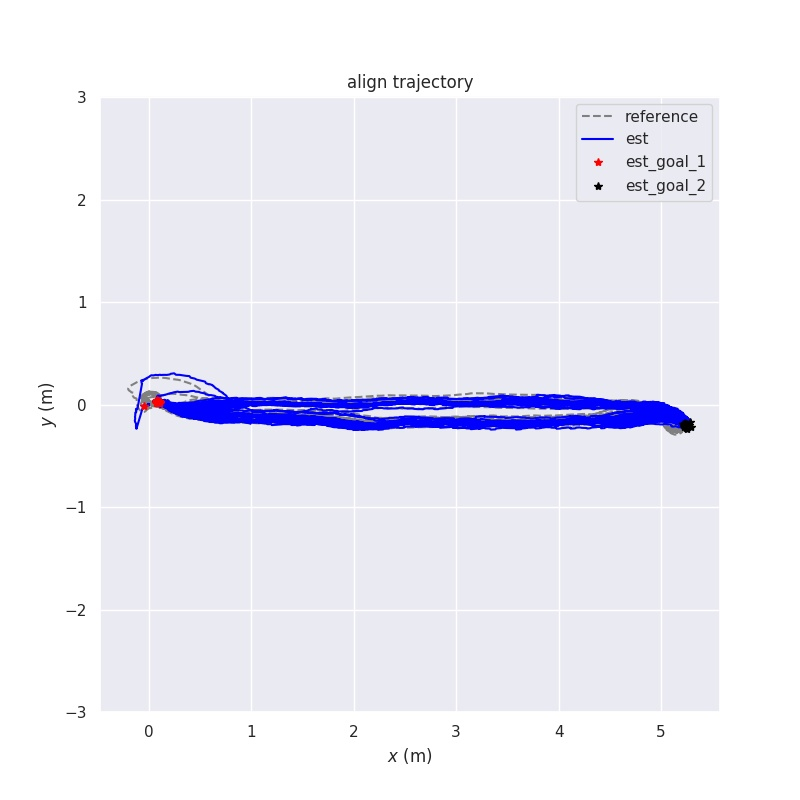
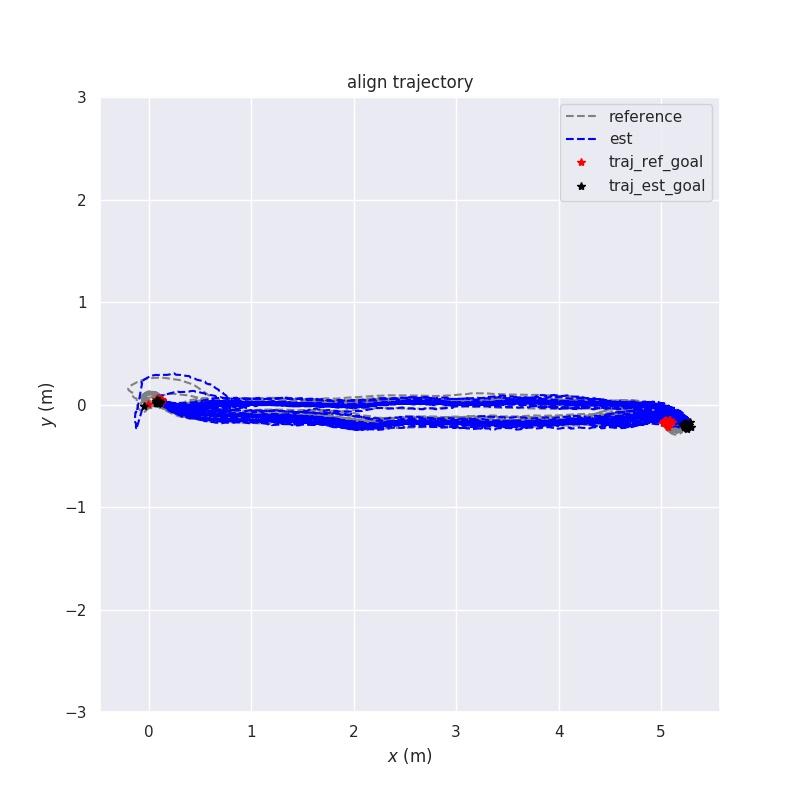
calculate two trj goal ape

Changed region(s): [[0.1562, 0.4688, 0.7812, 0.5312], [0.7188, 0.125, 0.875, 0.25], [0.8125, 0.5, 0.8438, 0.5625]]

diff --git a/align(back).py b/align(back).py
@@ -120,58 +120,83 @@ if __name__=="__main__":
         set_origin(traj_est,traj_ref)  
 
         # /reach_goal:
-        goal_timestamps= []
+        goal_1_timestamps= []
+        goal_2_timestamps= []
         for topic, msg, t in bag.read_messages(topic_signal):
-            goal_timestamps.append(msg.header.stamp.secs + (msg.header.stamp.nsecs * 1e-9))
+            # ReachGoal#1
+            if  msg.status.text=="ReachGoal#1":
+                goal_1_timestamps.append(msg.header.stamp.secs + (msg.header.stamp.nsecs * 1e-9))
+            # ReachGoal#1
+            if  msg.status.text=="ReachGoal#2":
+                goal_2_timestamps.append(msg.header.stamp.secs + (msg.header.stamp.nsecs * 1e-9))
 
         # Find the closest trajectort.
-        matching_indices_ref = []
-        matching_indices_est = []
-        stamps_goal, xyz_goal, quat_goal= [], [], []
-         # traj_ref
-        for index_1, element1 in enumerate(goal_timestamps):
-            diffs = traj_ref.timestamps-element1
+        max_diff = 0.01,
+        matching_indices_1 = []
+        matching_indices_2 = []
+        # ReachGoal#1
+        for index_1, goal_1_timestamps in enumerate(goal_1_timestamps):
+            diffs = traj_est.timestamps-goal_1_timestamps
             valid_idx = np.where(diffs >= 0)[0]
+            #index_2 = valid_idx[diffs[valid_idx].argmin()]
             index_2 = valid_idx[0]
-            matching_indices_ref.append(index_2)
-                
-        stamps_goal =traj_ref.timestamps[matching_indices_ref]
-        xyz_goal =traj_ref.positions_xyz[matching_indices_ref]
-        quat_goal =traj_ref.orientations_quat_wxyz[matching_indices_ref]
-        traj_ref_goal=PoseTrajectory3D(np.array(xyz_goal), np.array(quat_goal), np.array(stamps_goal),traj_ref.meta)
-
-        # traj_est
-        for index_1, element2 in enumerate(goal_timestamps):
-            diffs = traj_est.timestamps-element2
+            if diffs[index_2] <= max_diff:
+                matching_indices_1.append(index_2)
+        # ReachGoal#2
+        for index_1, goal_2_timestamps in enumerate(goal_2_timestamps):
+            diffs = traj_est.timestamps-goal_2_timestamps
             valid_idx = np.where(diffs >= 0)[0]
+            #index_2 = valid_idx[diffs[valid_idx].argmin()]
             index_2 = valid_idx[0]
-            matching_indices_est.append(index_2)
-                
-        stamps_goal =traj_est.timestamps[matching_indices_est]
-        xyz_goal =traj_est.positions_xyz[matching_indices_est]
-        quat_goal =traj_est.orientations_quat_wxyz[matching_indices_est]
-        traj_est_goal=PoseTrajectory3D(np.array(xyz_goal), np.array(quat_goal), np.array(stamps_goal),traj_est.meta)
+            if diffs[index_2 ] <= max_diff:
+                matching_indices_2.append(index_2 )
 
-        # calculating APE.
+        stamps_goal_1, xyz_goal_1, quat_goal_1= [], [], []
+        stamps_goal_1 =traj_est.timestamps[matching_indices_1]
+        xyz_goal_1 =traj_est.positions_xyz[matching_indices_1]
+        quat_goal_1 =traj_est.orientations_quat_wxyz[matching_indices_1]
+        traj_goal_1=PoseTrajectory3D(np.array(xyz_goal_1), np.array(quat_goal_1), np.array(stamps_goal_1),
+                            traj_est.meta)
+
+        stamps_goal_2, xyz_goal_2, quat_goal_2 = [], [], []
+        stamps_goal_2 =traj_est.timestamps[matching_indices_2]
+        xyz_goal_2 =traj_est.positions_xyz[matching_indices_2]
+        quat_goal_2 =traj_est.orientations_quat_wxyz[matching_indices_2]
+        traj_goal_2=PoseTrajectory3D(np.array(xyz_goal_2), np.array(quat_goal_2), np.array(stamps_goal_2),
+                            traj_est.meta)
+
+        # Compute std and mean ReachGoal#1.
+        goal_1_arr = traj_goal_1.positions_xyz
+        goal_1_mean_arr= goal_1_arr.mean(axis=0)
+        goal_1_d_arr=goal_1_arr - goal_1_mean_arr
+        goal_1_dis_arr = np.sqrt(np.square(goal_1_d_arr[:,0])+np.square(goal_1_d_arr [:,1])+np.square(goal_1_d_arr[:,2]))
+        goal_1_dis_mean = goal_1_dis_arr.mean(axis=0)
+        goal_1_dis_std= goal_1_dis_arr.std(ddof=1,axis=0)
+        print("goal_1_dis_mean :")
+        print(goal_1_dis_mean )
+        print("goal_1_dis_std:")
+        print(goal_1_dis_std)
+
+
+        # Compute std and mean ReachGoal#2.
+        goal_2_arr = traj_goal_2.positions_xyz
+        goal_2_mean_arr= goal_2_arr.mean(axis=0)
+        goal_2_d_arr=goal_2_arr - goal_2_mean_arr
+        goal_2_dis_arr = np.sqrt(np.square(goal_2_d_arr[:,0])+np.square(goal_2_d_arr [:,1])+np.square(goal_2_d_arr[:,2]))
+        goal_2_dis_mean = goal_2_dis_arr.mean(axis=0)
+        goal_2_dis_std= goal_2_dis_arr.std(ddof=1,axis=0)
+        print("goal_2_dis_mean:")
+        print(goal_2_dis_mean)
+        print("goal_2_dis_std:")
+        print(goal_2_dis_std)
+
         print("calculating APE")
-        traj_ref_goal_arr = traj_ref_goal.positions_xyz
-        traj_est_goal_arr = traj_est_goal.positions_xyz
-        goal_diff_arr=traj_ref_goal_arr - traj_est_goal_arr
-        goal_dis_arr = np.sqrt(np.square(goal_diff_arr[:,0])+np.square(goal_diff_arr [:,1])+np.square(goal_diff_arr[:,2]))
-
-        goal_dis_max = goal_dis_arr.max()
-        goal_dis_min = goal_dis_arr.min()
-        goal_dis_mean = goal_dis_arr.mean(axis=0)
-        goal_dis_median= np.median(goal_dis_arr)
-        goal_dis_std= goal_dis_arr.std(ddof=1,axis=0)
-        goal_dis_rmse =np.sqrt((goal_diff_arr ** 2).mean())
-
-        print("max:"+ str(goal_dis_max))
-        print("mean"+str(goal_dis_mean))
-        print("median"+str(goal_dis_median))
-        print("min"+str(goal_dis_min))
-        print("rmse"+str(goal_dis_rmse))
-        print("std"+str(goal_dis_std))
+        synv_traj_ref, synv_traj_est= sync.associate_trajectories(traj_ref, traj_est)
+        pose_relation = PoseRelation.full_transformation
+        #pose_relation = PoseRelation.translation_part
+        ape_result = main_ape.ape(synv_traj_ref, synv_traj_est,pose_relation)
+        print("ape_result:")
+        print(ape_result)
 
         #plot
         print("plot")
@@ -179,9 +204,9 @@ if __name__=="__main__":
         plot_mode = plot.PlotMode.xy
         ax = plot.prepare_axis(fig, plot_mode)
         plot.traj(ax, plot_mode, traj_ref, '--', 'gray','reference')
-        plot.traj(ax, plot_mode, traj_est, '--', 'blue','est')
-        plot.traj(ax, plot_mode, traj_ref_goal, '*', 'red','traj_ref_goal')
-        plot.traj(ax, plot_mode, traj_est_goal, '*', 'black','traj_est_goal')
+        plot.traj(ax, plot_mode, traj_est, '-', 'blue','est')
+        plot.traj(ax, plot_mode, traj_goal_1, '*', 'red','est_goal_1')
+        plot.traj(ax, plot_mode, traj_goal_2, '*', 'black','est_goal_2')
         fig.axes.append(ax)
         plt.title('align trajectory')
         plt.savefig("output.jpg")  #保存图象
